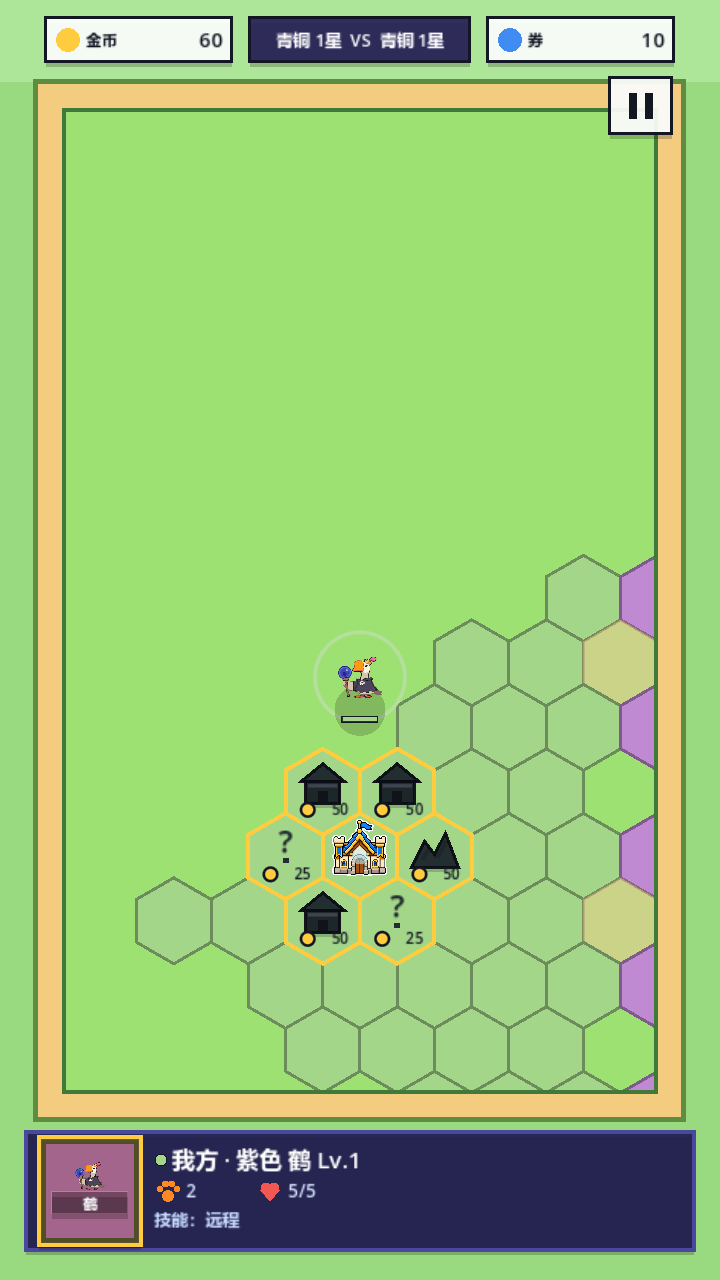
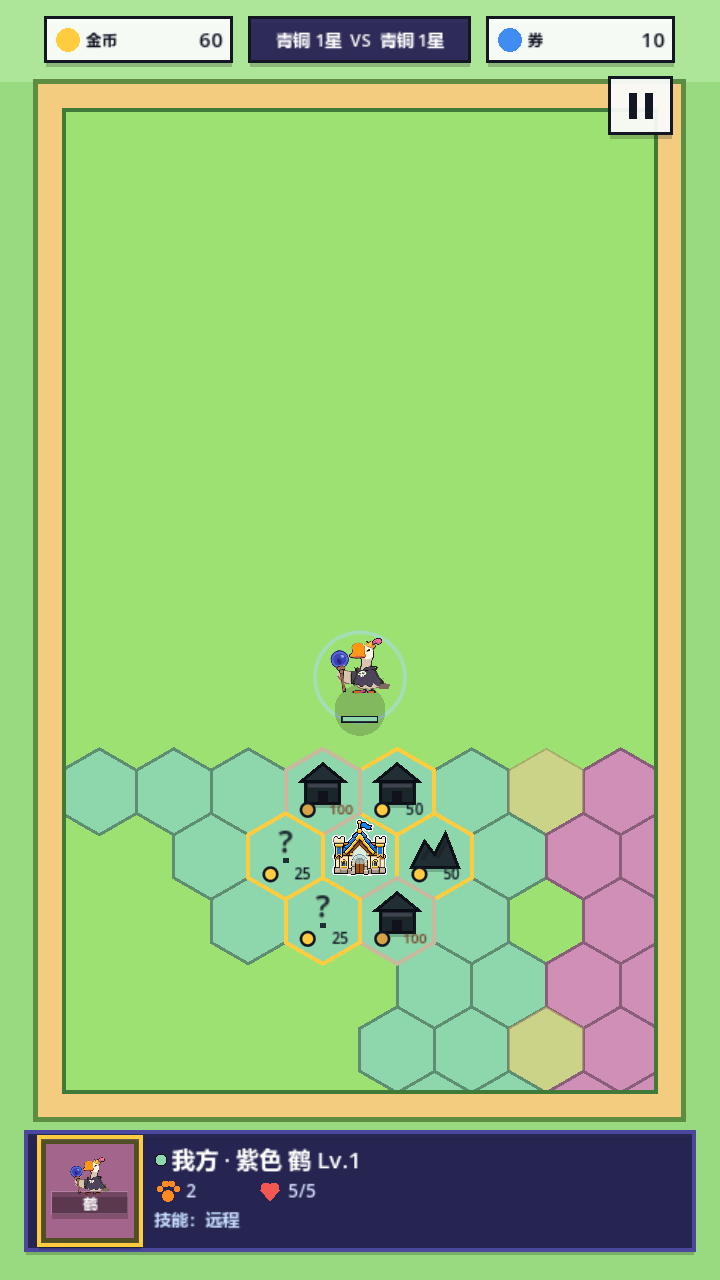
feat: enlarge integrated animal art by 35 percent

diff --git a/docs/receipts/F-ZC-ANIMAL-ART-001-SCALE-135-CLOSE-004.md b/docs/receipts/F-ZC-ANIMAL-ART-001-SCALE-135-CLOSE-004.md
@@ -1,0 +1,42 @@
+# F-ZC-ANIMAL-ART-001 Runtime Scale Completion Receipt
+
+## Result
+
+- Request: `REQ-20260811-ANIMAL-SCALE-135`.
+- Status: `COMPLETE`; visual gate for this adjustment: `RUNTIME_SLICE_APPROVED` at `720 x 1280`.
+- Branch baseline: `codex/animal-art-integration-20260811` at `26ed374e787650efee49ee4bc8b9df838e05a875`.
+- Producer-visible result: exactly the 40 newly integrated animal images display at `1.35` times their previous size throughout the current game runtime; the other 20 existing animal images remain at `1.0`.
+
+## Implemented behavior
+
+- Added one selective display-scale contract in `scripts/app/main.gd`: `INTEGRATED_ANIMAL_ART_DISPLAY_SCALE = 1.35` plus the exact 40-card manifest roster.
+- Applied the contract to lobby animals, deck/card/collection art, card detail art, living battle units, and death snapshots.
+- Preserved existing rarity multipliers and procedural pose scaling by multiplying them with the new display factor only at draw time.
+- Preserved world positions, unit tiles, collision, selection hit radius, input/touch bounds, card layout, configuration, and all animal PNG pixels.
+- Wide art uses the card's reserved transparent margins instead of being clipped to the old inner art rectangle; collection scrolling still clips to the page viewport.
+
+## Evidence
+
+- Roster parity: manifest `40`, runtime scale roster `40`, symmetric difference `0`.
+- Selective scale regression: integrated `mouse`, `cat`, and `fox` report `1.35`; non-integrated `bear` reports `1.0`; rarity and procedural scales compose exactly without logical-state mutation.
+- Direct-card-texture scan: all current animal card draw entry points route through the selective scale helper or the foot-anchored helper with the selective factor.
+- Godot 4.6.2 editor/headless parse: exit `0`, no parser error.
+- GDScript indentation: passed with tab indentation.
+- `test_unit_procedural_motion.tscn`: passed.
+- `test_battle_unit_inspection.tscn`: passed.
+- `test_classic_battle_regression.tscn`: passed for five random-map variants.
+- `test_animal_gold_economy.tscn`: passed.
+- Normal main-scene startup smoke: exit `0` after three frames.
+- OpenGL capture: `ANIMAL_ART_TEXTURES_PASS: 40/40` and `ANIMAL_ART_CAPTURE_PASS`.
+- Player-visible evidence: 14 regenerated screenshots under `output/qa/F-ZC-ANIMAL-ART-001/`, all `720 x 1280`; deck and battle samples cover rabbit, ant, seal, sheep, pig, swan, and crane.
+- Visual review: wide seal and tall crane silhouettes remain complete; no material overlap with names, health bars, buttons, or adjacent cards.
+- Animal source/runtime PNG changes: `0`.
+
+## Final hashes and boundaries
+
[2 lines of base64/hex data omitted]
+- Some headless regression scenes emit resource/ObjectDB shutdown warnings after their explicit PASS result; no assertion, parse, startup, or capture failure occurred.
+- No Android/Windows/Web package was rebuilt in this display-only task. `RELEASE_VISUAL_APPROVED` remains pending an exported-build and target-device review.
+- Shared `scripts/app/main.gd` lock returned; task-local control intake removed.
+- Reusable method candidate: none; the selective scale helper and regression remain project-local.

diff --git a/docs/receipts/F-ZC-ANIMAL-ART-001-SCALE-135-READ-ONLY-003.md b/docs/receipts/F-ZC-ANIMAL-ART-001-SCALE-135-READ-ONLY-003.md
@@ -1,0 +1,38 @@
+# F-ZC-ANIMAL-ART-001 Runtime Scale Read-Only Receipt
+
+## Control state
+
+- Request: `REQ-20260811-ANIMAL-SCALE-135`.
+- Producer rule: the newly integrated animal images must display 35% larger throughout the game.
+- Feature/version: `F-ZC-ANIMAL-ART-001` / `v1.1`.
[2 lines of base64/hex data omitted]
+- Execution route: `L3`, current control agent acting as the unique `engineering_owner`; no new agent or task was created.
+- Branch/commit baseline: `codex/animal-art-integration-20260811` at `26ed374e787650efee49ee4bc8b9df838e05a875`.
+
+## Loaded sources and baselines
+
+- Existing visual contract: `docs/receipts/F-ZC-ANIMAL-ART-001-VISUAL-CONTRACT.md`.
+- Existing closure evidence: `docs/receipts/F-ZC-ANIMAL-ART-001-CLOSE-002.md`.
+- New-image roster: 40 rows in `output/qa/F-ZC-ANIMAL-ART-001/source_manifest.csv`.
[2 lines of base64/hex data omitted]
+- Capture path: `tests/capture_animal_art_integration.tscn`; existing before-change captures are under `output/qa/F-ZC-ANIMAL-ART-001/`.
+- GDScript indentation contract: tabs from `.editorconfig`.
+
+## Authorized implementation boundary
+
+- Add one runtime scale rule: `1.35` for exactly the 40 card IDs registered by the new-image manifest; keep all other card art at `1.0`.
+- Apply the rule consistently to lobby animals, card/deck/collection art, card detail art, living battle units, and death snapshots.
+- Preserve existing rarity scaling, procedural pose scaling, draw anchors, world positions, unit tiles, collision, selection hit radius, input/touch bounds, card layout, configuration, and source PNG pixels.
+- Allowed writes: `scripts/app/main.gd`, focused scale tests, this receipt and its completion receipt, task-local control state, and regenerated animal-art QA captures.
+- Forbidden writes: animal PNG source/runtime pixels, CSV/JSON gameplay data, server/network code, unrelated UI, branding, package outputs, and unrelated untracked files.
+
+## Acceptance
+
+- All 40 manifest cards report an exact base display scale of `1.35`; representative non-integrated cards remain `1.0`.
+- Existing rarity and procedural motion scales multiply the new display factor without mutating logical state.
+- Every known animal draw path uses the shared display-scale rule.
+- GDScript indentation, headless parse/startup, focused scale/motion regression, animal-art capture, and adjacent battle regressions pass.
+- Regenerated 720x1280 player-visible captures show the larger animals without material overlap or clipping.
+- Shared lock is returned and temporary task files are removed after closure.
